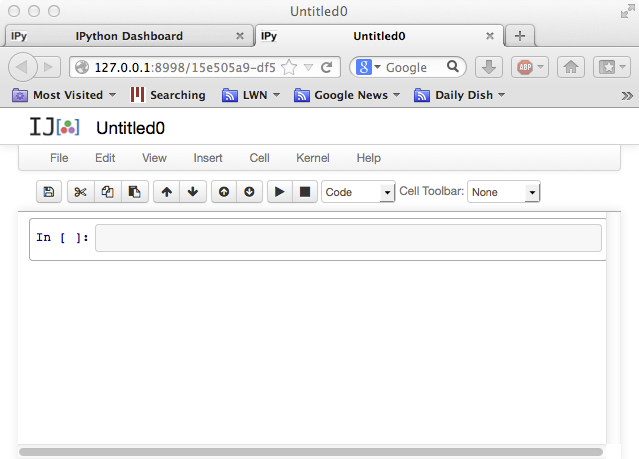
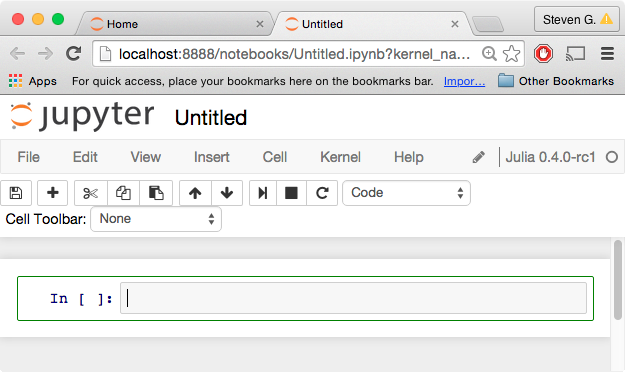
updated for latest Julia version

diff --git a/README.md b/README.md
@@ -5,7 +5,7 @@ Several MIT courses involving numerical computation, including
 [18.06](http://web.mit.edu/18.06/www/),
 [18.303](http://math.mit.edu/~stevenj/18.303/),
 [18.330](http://homerreid.com/teaching/18.330/),
-[18.335/6.337](http://math.mit.edu/~stevenj/18.335/), 
+[18.335/6.337](http://math.mit.edu/~stevenj/18.335/),
 [18.337/6.338](http://beowulf.csail.mit.edu/18.337/index.html),
 and
 [18.338](http://web.mit.edu/18.338/www/),
@@ -88,30 +88,46 @@ essentially allowing you to extend the language as needed.  And so on...
 
 ## Installing Julia and IJulia
 
-First, [install IPython](http://ipython.org/install.html) and related
-scientific Python packages (SciPy and Matplotlib).  The simplest way
-to do this on Mac and Windows is by [downloading the Anaconda
-package](http://continuum.io/downloads) and running its installer.
-(Do *not* use Enthought Canopy/EPD.)
-
-* **Important**: on Windows, the Anaconda installer window gives options *Add Anaconda to the System Path* and also *Register Anaconda as default Python version of the system*.  Be sure to **check these boxes**.
-
-If you have already installed Anaconda more than a few months ago, you may need to update Anaconda. Run `conda install anaconda` in the command prompt to update Anaconda and the necessary packages. For older Anaconda installations you may have to run `conda install numpy` twice and then `conda install anaconda` until no more updatable packages are found.
-
 Second, [download the current release of Julia](http://julialang.org/downloads/) *version
-0.3* and run the installer.
+0.3 or later* and run the installer.
 Then run the Julia application (double-click on
 it); a window with a `julia>` prompt will appear.  At the prompt,
 type:
 
 ```jl
+ENV["PYTHON"]=""
+ENV["JUPYTER"]=""
 Pkg.add("IJulia")
 Pkg.add("PyPlot")
 ```
 
+The first two lines set the `PYTHON` and `JUPYTER` environment
+variables to nothing, so that Julia will install its own little Python
+distribution via
+[Miniconda](http://conda.pydata.org/docs/install/quick.html) and the
+[Conda.jl](https://github.com/Luthaf/Conda.jl) package.  This is the
+most painless way to get a working IJulia
+([Jupyter](http://jupyter.org/) browser-based "notebook" interface)
+and PyPlot ([Matplotlib](http://matplotlib.org/) Python-based
+plotting).  Alternatively, if you really know what you are doing, you
+an use your own Python installation (we recommend the
+[Anaconda](https://www.continuum.io/why-anaconda) Python
+distribution); if you omit those two `ENV` lines it will use whatever
+you have installed (assuming it is in your `PATH`).  You can also
+switch Python distributions at any time by setting `ENV["PYTHON"]` to
+the desired `python` program path and then running
+`Pkg.build("PyCall")`.
+
+Then you can launch the notebook by running
+```jl
+using IJulia
+notebook()
+```
+at the `julia>` prompt, as described below.
+
 ### Troubleshooting:
 
-* If you ran into a problem with the above steps, after fixing the 
+* If you ran into a problem with the above steps, after fixing the
 problem you can type `Pkg.build()` to try to rerun the install scripts.
 * If you tried it a while ago, try running `Pkg.update()` and try again:
   this will fetch the latest versions of the Julia packages in case
@@ -143,12 +159,16 @@ to load the Julia and IPython software locker.
 The *first* time you use Julia on Athena, you will need to set up IJulia: run `julia`, and at the `julia>` prompt, type
 ```jl
 Pkg.update()
+ENV["JUPYTER"]=""
 Pkg.add("PyPlot")
 Pkg.add("IJulia")
 ```
 
-Thereafter, you can open the IJulia notebook in the web browser by
-running `ipython notebook --profile julia` as described below.
+Thereafter, you can run the notebook as below.
+
+(Unfortunately, as of this writing Athena still has IPython version 2,
+whereas IJulia requires IPython version 3 or later, so you can't use
+the `ipython` on Athena.)
 
 #### Remote access to Julia on Athena.
 
@@ -162,7 +182,7 @@ nicer than running a web browser remotely over X Windows).   The steps are:
 
 * `add julia` and make sure IJulia is installed as above.
 
-* Quit Julia and type (at the Athena prompt): `ipython notebook --profile julia --no-browser`
+* Quit Julia and type (at the Athena prompt): `ipython notebook --no-browser`  ... unfortunately, this won't work until Athena installs a newer version of `ipython`.  Instead of `ipython`, you can find the `jupyter notebook` command that Julia installs by running `using IJulia; join(IJulia.notebook_cmd, " ")` in Julia.
 
 * In your ordinary web browser, type `localhost:8778` in the address bar.
 
@@ -191,28 +211,23 @@ Julia command line (not in IJulia).
 ## Running Julia in the IJulia Notebook
 
 Once you have followed the installation steps above, open up the
-command line (the
-[Terminal](https://en.wikipedia.org/wiki/Terminal_%28OS_X%29) program
-in MacOS or the [Command
-Prompt](https://en.wikipedia.org/wiki/Command_Prompt) on Windows) and type:
+Julia command line (run `julia` or double-click the `julia` program)
+and run
+```jl
+using IJulia
+notebook()
 ```
-ipython notebook --profile julia
-```
-
-* **Important**: On Windows, you must run the above command from the <a href="https://github.com/JuliaLang/julia/issues/4331">`bin` subdirectory</a> of the Julia directory that you downloaded/unpacked.  e.g., open up the window for the `bin` subdirectory and then choose *Open Command Prompt* from the *File* menu (in Windows 8) in order to type the above command.
-
 A "dashboard" window like this should open in your web browser:
 
 ![IJulia dashboard](dashboard.png "IJulia Dashboard Window")
 
-Now, click on the *New Notebook* button to start a new "notebook".  A
-notebook will combine code, computed results, formatted text, and
+Now, click on the *New* button and select the *Julia* option to start a new "notebook".  A notebook will combine code, computed results, formatted text, and
 images; for example, you might use one notebook for each problem set.
 The notebook window that opens will look something like:
 
 ![IJulia notebook](notebook-1.png "IJulia empty notebook")
 
-You can click the "Untitled0" at the top to change the name, e.g. to
+You can click the "Untitled" at the top to change the name, e.g. to
 "My first Julia notebook".  You can enter Julia code at the `In[ ]`
 prompt, and hit **shift-return** to execute it and see the results.
 If you hit **return** *without* the shift key, it will add additional
@@ -249,7 +264,9 @@ module](http://docs.julialang.org/en/latest/manual/modules/) (which
 must usually [be
 installed](http://docs.julialang.org/en/latest/manual/packages/)
 first, e.g. by the `Pkg.add("PyPlot")` command from the installation
-instructions above).
+instructions above).  The *very first* time you do this, it will
+take some time; in Julia 0.4 or later, the module and its dependencies will be
+"precompiled" so that in subsequent Julia sessions it will load quickly.
 
 Then, you can type any of the [commands from
 Matplotlib](http://matplotlib.org/api/pyplot_api.html), which includes
@@ -265,7 +282,7 @@ href="https://github.com/ipython/ipython/issues/4196">can be somewhat problemati
 * At the top of the notebook, click on the *File* menu (in the
   notebook, *not* the browser's global menu bar), and choose **Print
   Preview**.  This should open up a window/tab that you can print
-  normally.  (We've heard that this doesn't work in some browser/OS combinations, though; let us know how it works for you.)
+  normally.
 
 * For turning in homework, a class may allow you to submit the notebook file
   (`.ipynb` file) electronically (the graders will handle printing).  You can save a notebook file in a different location by choosing **Download as** from the notebook's *File* menu.
@@ -283,4 +300,3 @@ href="https://github.com/ipython/ipython/issues/4196">can be somewhat problemati
 
 * If you post your notebook in a Dropbox account or in some other
   web-accessible location, you can paste the URL into the online [nbviewer](http://nbviewer.ipython.org/) to get a printable version.
-
